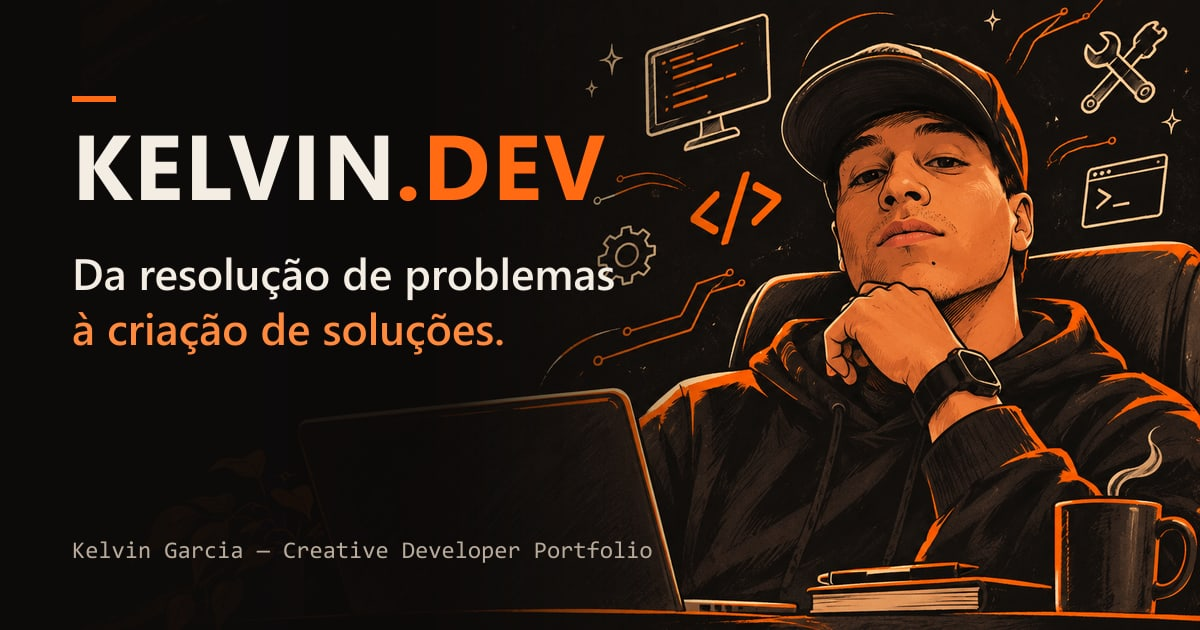
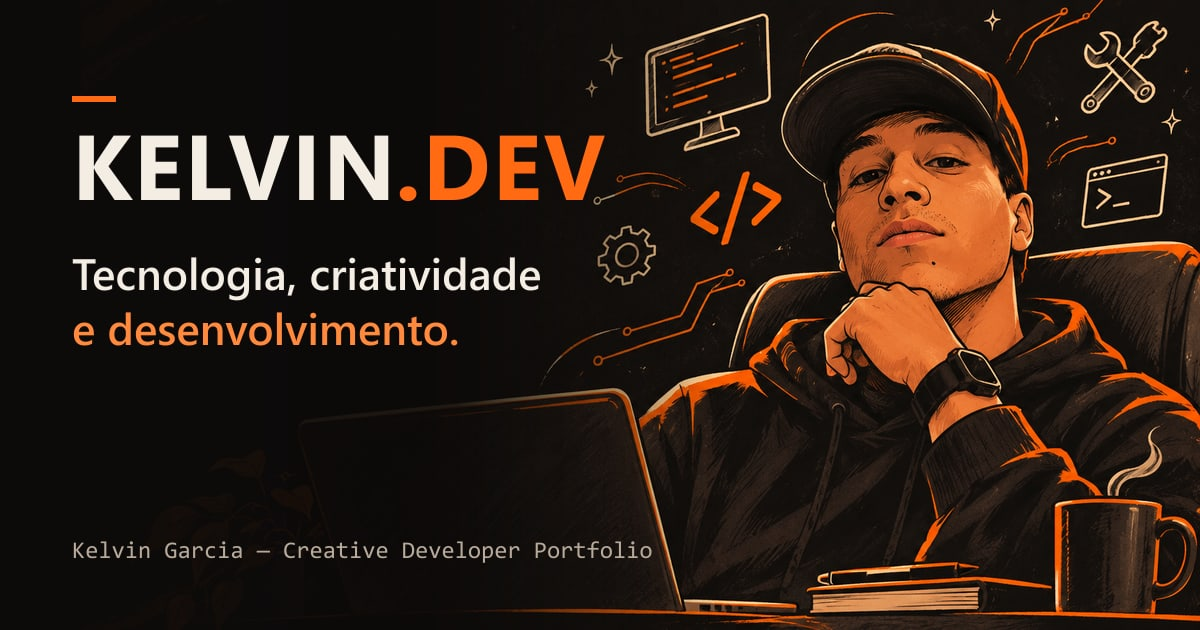
refactor: improve professional portfolio content

Changed region(s): [[0.0617, 0.3921, 0.5242, 0.573]]

diff --git a/index.html b/index.html
@@ -46,9 +46,9 @@
         <span class="sr-only">Abrir menu</span><span class="nav__bars" aria-hidden="true"></span>
       </button>
       <nav id="menu" class="nav__menu" aria-label="Principal">
-        <a href="#sobre">Sobre</a>
-        <a href="#trajetoria">Trajetória</a>
+        <a href="#sobre">Perfil</a>
         <a href="#projetos">Projetos</a>
+        <a href="#trajetoria">Trajetória</a>
         <a href="#terminal">Terminal</a>
         <a class="nav__cta" href="#contato">Contato</a>
       </nav>
@@ -80,7 +80,7 @@
         <div class="hero__content">
           <p class="eyebrow hero__in" style="--d:0">Kelvin Garcia · Creative Developer</p>
           <h1 id="hero-title" class="hero__title hero__in" style="--d:1">
-            Da resolução de problemas <em>à criação de soluções.</em>
+            Tecnologia, criatividade e <em>desenvolvimento.</em>
           </h1>
           <p class="hero__lead hero__in" style="--d:2">%SUBHEADLINE%</p>
           <div class="hero__actions hero__in" style="--d:3">
@@ -89,45 +89,52 @@
           </div>
           <p class="hero__prompt hero__in" style="--d:4" aria-hidden="true"><span>~/kelvin</span> $ <span data-typed>suporte → implantação → código</span><i class="cursor"></i></p>
         </div>
-        <a class="hero__scroll" href="#sobre" aria-label="Rolar para Sobre"><span></span></a>
+        <a class="hero__scroll" href="#sobre" aria-label="Rolar para Perfil profissional"><span></span></a>
       </section>
 
-      <!-- SOBRE -->
+      <!-- PERFIL PROFISSIONAL -->
       <section class="section about" id="sobre" aria-labelledby="sobre-title">
         <div class="wrap about__grid">
           <div class="reveal">
-            <p class="eyebrow">01 · Sobre</p>
-            <h2 id="sobre-title" class="section__title">Aprendi tecnologia resolvendo problemas de verdade.</h2>
+            <p class="eyebrow">01 · Perfil profissional</p>
+            <h2 id="sobre-title" class="section__title">Desenvolvimento de software e soluções digitais.</h2>
           </div>
           <div class="about__text reveal">
             <p>
-              Comecei na TI atendendo pessoas: computadores que não ligavam, impressoras paradas, redes instáveis
-              e sistemas que precisavam funcionar no mesmo dia. No suporte e na implantação de sistemas, aprendi a
-              diagnosticar com calma, documentar o que faço e explicar soluções de forma simples.
+              Graduando em Sistemas de Informação, com experiência profissional em suporte técnico N1/N2,
+              infraestrutura de TI e implantação de sistemas.
             </p>
             <p>
-              Hoje curso Sistemas de Informação e levo essas experiências para o código. Meus projetos nasceram de
-              situações que vivi no suporte: manutenção repetitiva, diagnóstico de máquinas e controle de periféricos.
-              Mais recentemente, passei a criar soluções de automação de processos e integração de sistemas, como o FLOWRIX.
+              Atuação no desenvolvimento de aplicações web e desktop, com projetos voltados à automação de processos,
+              integração de sistemas, gestão empresarial e monitoramento de ativos.
             </p>
-            <p class="about__note">
-              Uso ferramentas de inteligência artificial como apoio ao estudo, à implementação e à revisão dos projetos —
-              e procuro entender cada decisão técnica que entra no código.
-            </p>
+            <p>Interesse em arquitetura de software, desenvolvimento back-end, APIs e computação em nuvem.</p>
           </div>
         </div>
         <ul class="wrap stats reveal" aria-label="Resumo">
           <li><strong>2</strong><span>experiências em TI</span></li>
-          <li><strong>%PROJECT_COUNT%</strong><span>projetos publicados no GitHub</span></li>
+          <li><strong>%PROJECT_COUNT%</strong><span>projetos publicados</span></li>
           <li><strong>N1/N2</strong><span>atendimento e suporte técnico</span></li>
           <li><strong>SI</strong><span>Sistemas de Informação, em andamento</span></li>
         </ul>
       </section>
 
+      <!-- PROJETOS -->
+      <section class="section projects" id="projetos" aria-labelledby="projetos-title">
+        <div class="wrap">
+          <p class="eyebrow reveal">02 · Projetos</p>
+          <h2 id="projetos-title" class="section__title reveal">Soluções para problemas reais.</h2>
+          <p class="section__lead reveal">Duas plataformas web — automação de processos e gestão de equipes — e três aplicativos para Windows, todos com documentação.</p>
+          <div class="projects__list">
+            <!--@projects-->
+          </div>
+        </div>
+      </section>
+
       <!-- TRAJETÓRIA -->
       <section class="section journey" id="trajetoria" aria-labelledby="trajetoria-title">
         <div class="wrap">
-          <p class="eyebrow reveal">02 · Trajetória</p>
+          <p class="eyebrow reveal">03 · Trajetória profissional</p>
           <h2 id="trajetoria-title" class="section__title reveal">Do atendimento ao desenvolvimento.</h2>
           <ol class="timeline">
             <li class="timeline__item reveal">
@@ -171,18 +178,6 @@
                 <li>JavaScript / Node.js</li><li>PowerShell</li><li>Git / GitHub</li>
               </ul>
             </div>
-          </div>
-        </div>
-      </section>
-
-      <!-- PROJETOS -->
-      <section class="section projects" id="projetos" aria-labelledby="projetos-title">
-        <div class="wrap">
-          <p class="eyebrow reveal">03 · Projetos</p>
-          <h2 id="projetos-title" class="section__title reveal">Soluções para problemas reais.</h2>
-          <p class="section__lead reveal">Duas plataformas web — automação de processos e gestão de equipes — e três aplicativos para Windows, todos com documentação.</p>
-          <div class="projects__list">
-            <!--@projects-->
           </div>
         </div>
       </section>

diff --git a/tests/portfolio.test.js b/tests/portfolio.test.js
@@ -1,5 +1,5 @@
 import { describe, it, expect, vi } from 'vitest';
-import { existsSync } from 'node:fs';
+import { existsSync, readFileSync } from 'node:fs';
 import { projects } from '../src/data/projects.js';
 import { site } from '../src/data/site.js';
 import { validateProject, renderProjectCard, renderProjects, esc } from '../src/lib/render.js';
@@ -193,5 +193,27 @@ describe('terminal', () => {
     expect(runCommand(cmds, '   ').text).toBe('');
     expect(runCommand(cmds, 'HELP').text).toContain('Comandos');
     expect(runCommand(cmds, 'clear').clear).toBe(true);
+  });
+});
+
+describe('conteúdo da página', () => {
+  const html = readFileSync('index.html', 'utf8');
+
+  it('segue a ordem: início, perfil profissional, projetos, trajetória, terminal e contato', () => {
+    const ids = ['inicio', 'sobre', 'projetos', 'trajetoria', 'terminal', 'contato'].map((id) => html.indexOf(`id="${id}"`));
+    expect(ids.slice(1).every((i) => i > 0)).toBe(true);
+    expect([...ids.slice(1)].sort((a, b) => a - b)).toEqual(ids.slice(1));
+    const nav = html.slice(html.indexOf('<nav'), html.indexOf('</nav>')).match(/href="#\w+"/g);
+    expect(nav).toEqual(['href="#sobre"', 'href="#projetos"', 'href="#trajetoria"', 'href="#terminal"', 'href="#contato"']);
+  });
+
+  it('usa os textos profissionais do início e do perfil', () => {
+    expect(site.headline).toBe('Tecnologia, criatividade e desenvolvimento.');
+    expect(site.subheadline).toBe('Desenvolvimento de software, automação de processos e integração de sistemas.');
+    expect(site.subheadline).not.toContain(site.name);
+    expect(html).toContain('Tecnologia, criatividade e <em>desenvolvimento.</em>');
+    expect(html).toContain('01 · Perfil profissional');
+    expect(html).toContain('Desenvolvimento de software e soluções digitais.');
+    expect(html).not.toMatch(/Aprendi tecnologia|Comecei na TI|resolução de problemas/);
   });
 });

diff --git a/src/lib/terminal.js b/src/lib/terminal.js
@@ -6,7 +6,7 @@ export function createCommands({ site, projects }) {
     help: () =>
       [
         'Comandos disponíveis:',
-        '  sobre      quem é Kelvin',
+        '  sobre      perfil profissional',
         '  projetos   lista os projetos',
         '  abrir <n>  abre o projeto n (GitHub ou sistema publicado)',
         '  stack      tecnologias que uso',
@@ -15,9 +15,9 @@ export function createCommands({ site, projects }) {
         '  clear      limpa o terminal',
       ].join('\n'),
     sobre: () =>
-      'Kelvin Garcia — suporte de TI e implantação de sistemas, estudante de Sistemas de Informação.\nTransformo problemas que vivi no suporte em ferramentas de software.',
-    whoami: () => 'kelvin — da resolução de problemas à criação de soluções.',
-    projetos: () => `${list}\n\nDigite "abrir 1" para ver o código do primeiro projeto.`,
+      'Kelvin Garcia — graduando em Sistemas de Informação, com experiência em suporte técnico N1/N2,\ninfraestrutura de TI e implantação de sistemas. Desenvolvimento de aplicações web e desktop:\nautomação de processos, integração de sistemas, gestão empresarial e monitoramento de ativos.',
+    whoami: () => 'kelvin — tecnologia, criatividade e desenvolvimento.',
+    projetos: () => `${list}\n\nDigite "abrir 1" para abrir o primeiro projeto.`,
     stack: () =>
       'Suporte: Windows · Redes/DHCP · Acesso remoto · Hardware e periféricos\nCódigo:  Python · C#/.NET · WPF · SQLite · JavaScript/Node.js · Git\nEstudando: Go · AWS · Azure',
     contato: () =>

diff --git a/src/data/site.js b/src/data/site.js
@@ -3,8 +3,8 @@ export const site = {
   title: 'Kelvin Garcia — Creative Developer Portfolio',
   brand: 'KELVIN.DEV',
   name: 'Kelvin Garcia',
-  headline: 'Da resolução de problemas à criação de soluções.',
-  subheadline: 'Sou Kelvin Garcia. Transformo experiências reais em ideias, código e tecnologia.',
+  headline: 'Tecnologia, criatividade e desenvolvimento.',
+  subheadline: 'Desenvolvimento de software, automação de processos e integração de sistemas.',
   description:
     'Portfólio de Kelvin Garcia: suporte de TI, implantação de sistemas, automação de processos e desenvolvimento de software — FLOWRIX e ferramentas para Windows em Python e C#/.NET.',
   url: 'https://kelvin-garcia.netlify.app',

diff --git a/README.md b/README.md
@@ -1,6 +1,6 @@
 # KELVIN.DEV — Kelvin Garcia · Creative Developer Portfolio
 
-> Da resolução de problemas à criação de soluções.
+> Tecnologia, criatividade e desenvolvimento.
 
 Portfólio pessoal interativo que apresenta minha trajetória em suporte de TI, implantação de sistemas e desenvolvimento de software: o **FLOWRIX**, plataforma web de automação de processos e integração de sistemas, o **ZENTRA**, sistema web de gestão de equipes e pessoas, e ferramentas para Windows que nasceram de problemas reais do dia a dia do suporte.
 
@@ -22,7 +22,7 @@ Portfólio pessoal interativo que apresenta minha trajetória em suporte de TI, 
 
 - **Hero ilustrado** com a arte personalizada, adaptada para desktop, tablet e celular sem distorção e com o rosto sempre enquadrado.
 - **Animações de entrada** e elementos SVG complementares (faíscas, circuitos, código) com parallax sutil — respeitando `prefers-reduced-motion`.
-- **Trajetória** profissional e acadêmica em linha do tempo.
+- **Perfil profissional**, **projetos** e **trajetória** profissional e acadêmica em linha do tempo, nessa ordem.
 - **Projetos** gerados a partir de um único arquivo de configuração, com capturas de tela, tecnologias e links de código, release, documentação e demonstração. Projetos com código privado (`private: true`) mostram só o sistema publicado e o indicador "Código privado"; o terminal abre a demonstração.
 - **Projeto em destaque** (FLOWRIX) com a identidade visual do próprio projeto (cor e símbolo), problema e solução, e **galeria** de capturas reais com visualização ampliada.
 - **Dados ao vivo do GitHub** (última release, data de atualização, estrelas) via API pública, sem token, com cache de 6 h. Se a API estiver indisponível ou limitada, o site continua mostrando as informações da configuração.
